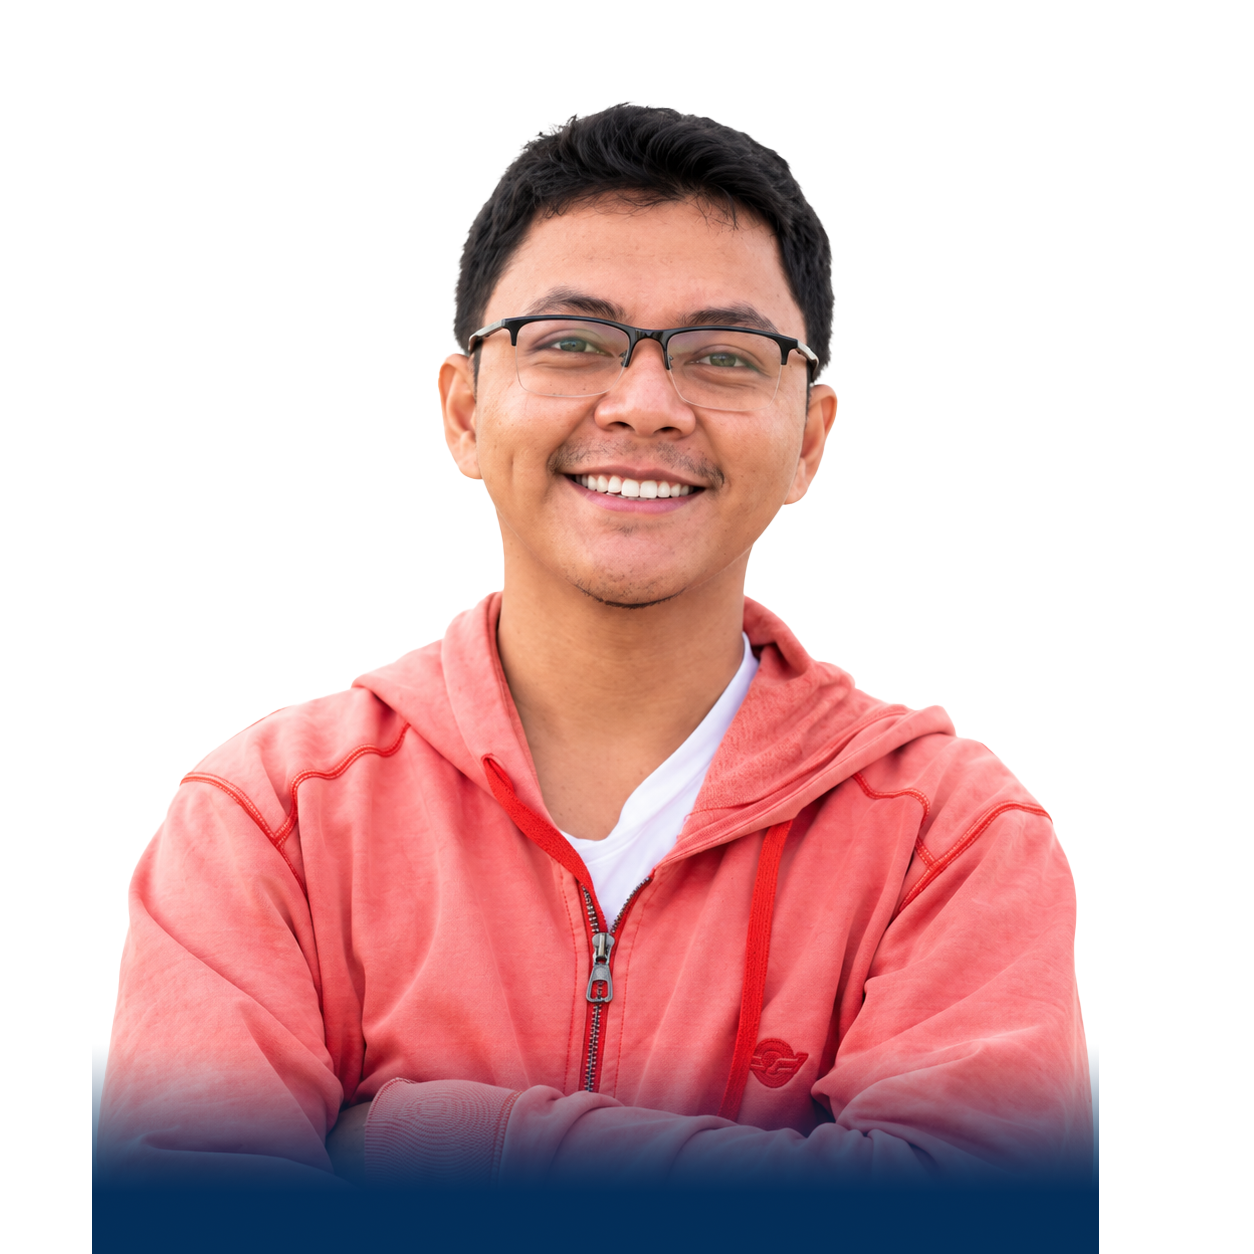
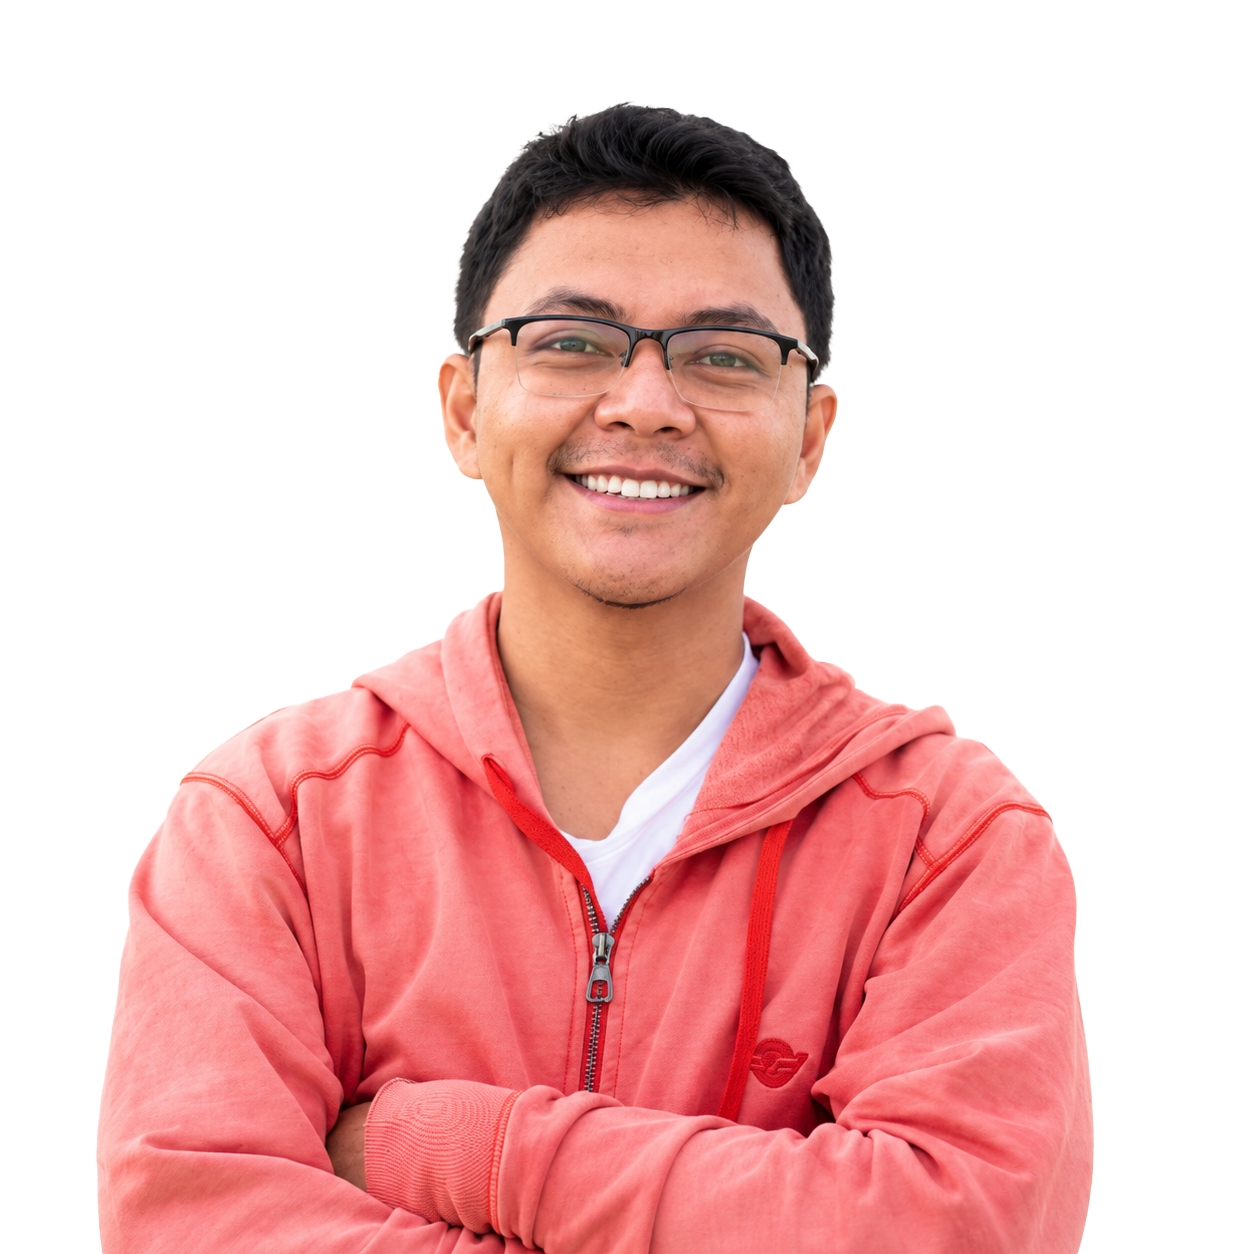
Edit

Changed region(s): [[0.0622, 0.8397, 0.9019, 1.0]]

diff --git a/index.html b/index.html
@@ -486,6 +486,8 @@
 
   [data-theme="light"] .photo-backdrop{
     background:var(--navy-900);
+    -webkit-mask-image: radial-gradient(circle, black 35%, transparent 72%);
+            mask-image: radial-gradient(circle, black 35%, transparent 72%);
   }
 
   .hero-photo-img{
